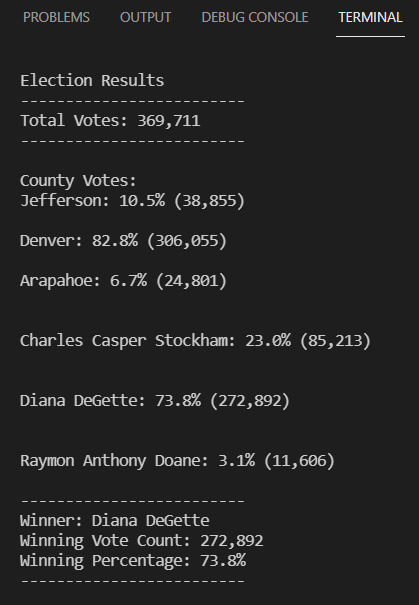
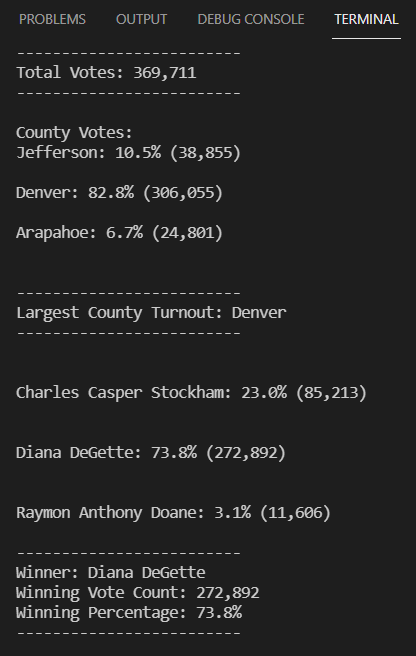
corrected terminal_output

diff --git a/PyPoll_Challenge.py b/PyPoll_Challenge.py
@@ -113,7 +113,7 @@ with open(file_to_save, "w") as txt_file:
     largest_county_summary = (f"\n-------------------------\n"
         f"Largest County Turnout: {largest_county}\n"
         f"-------------------------\n")
-
+    print(largest_county_summary)
     # 8: Save the county with the largest turnout to a text file.
     txt_file.write(largest_county_summary)
 
